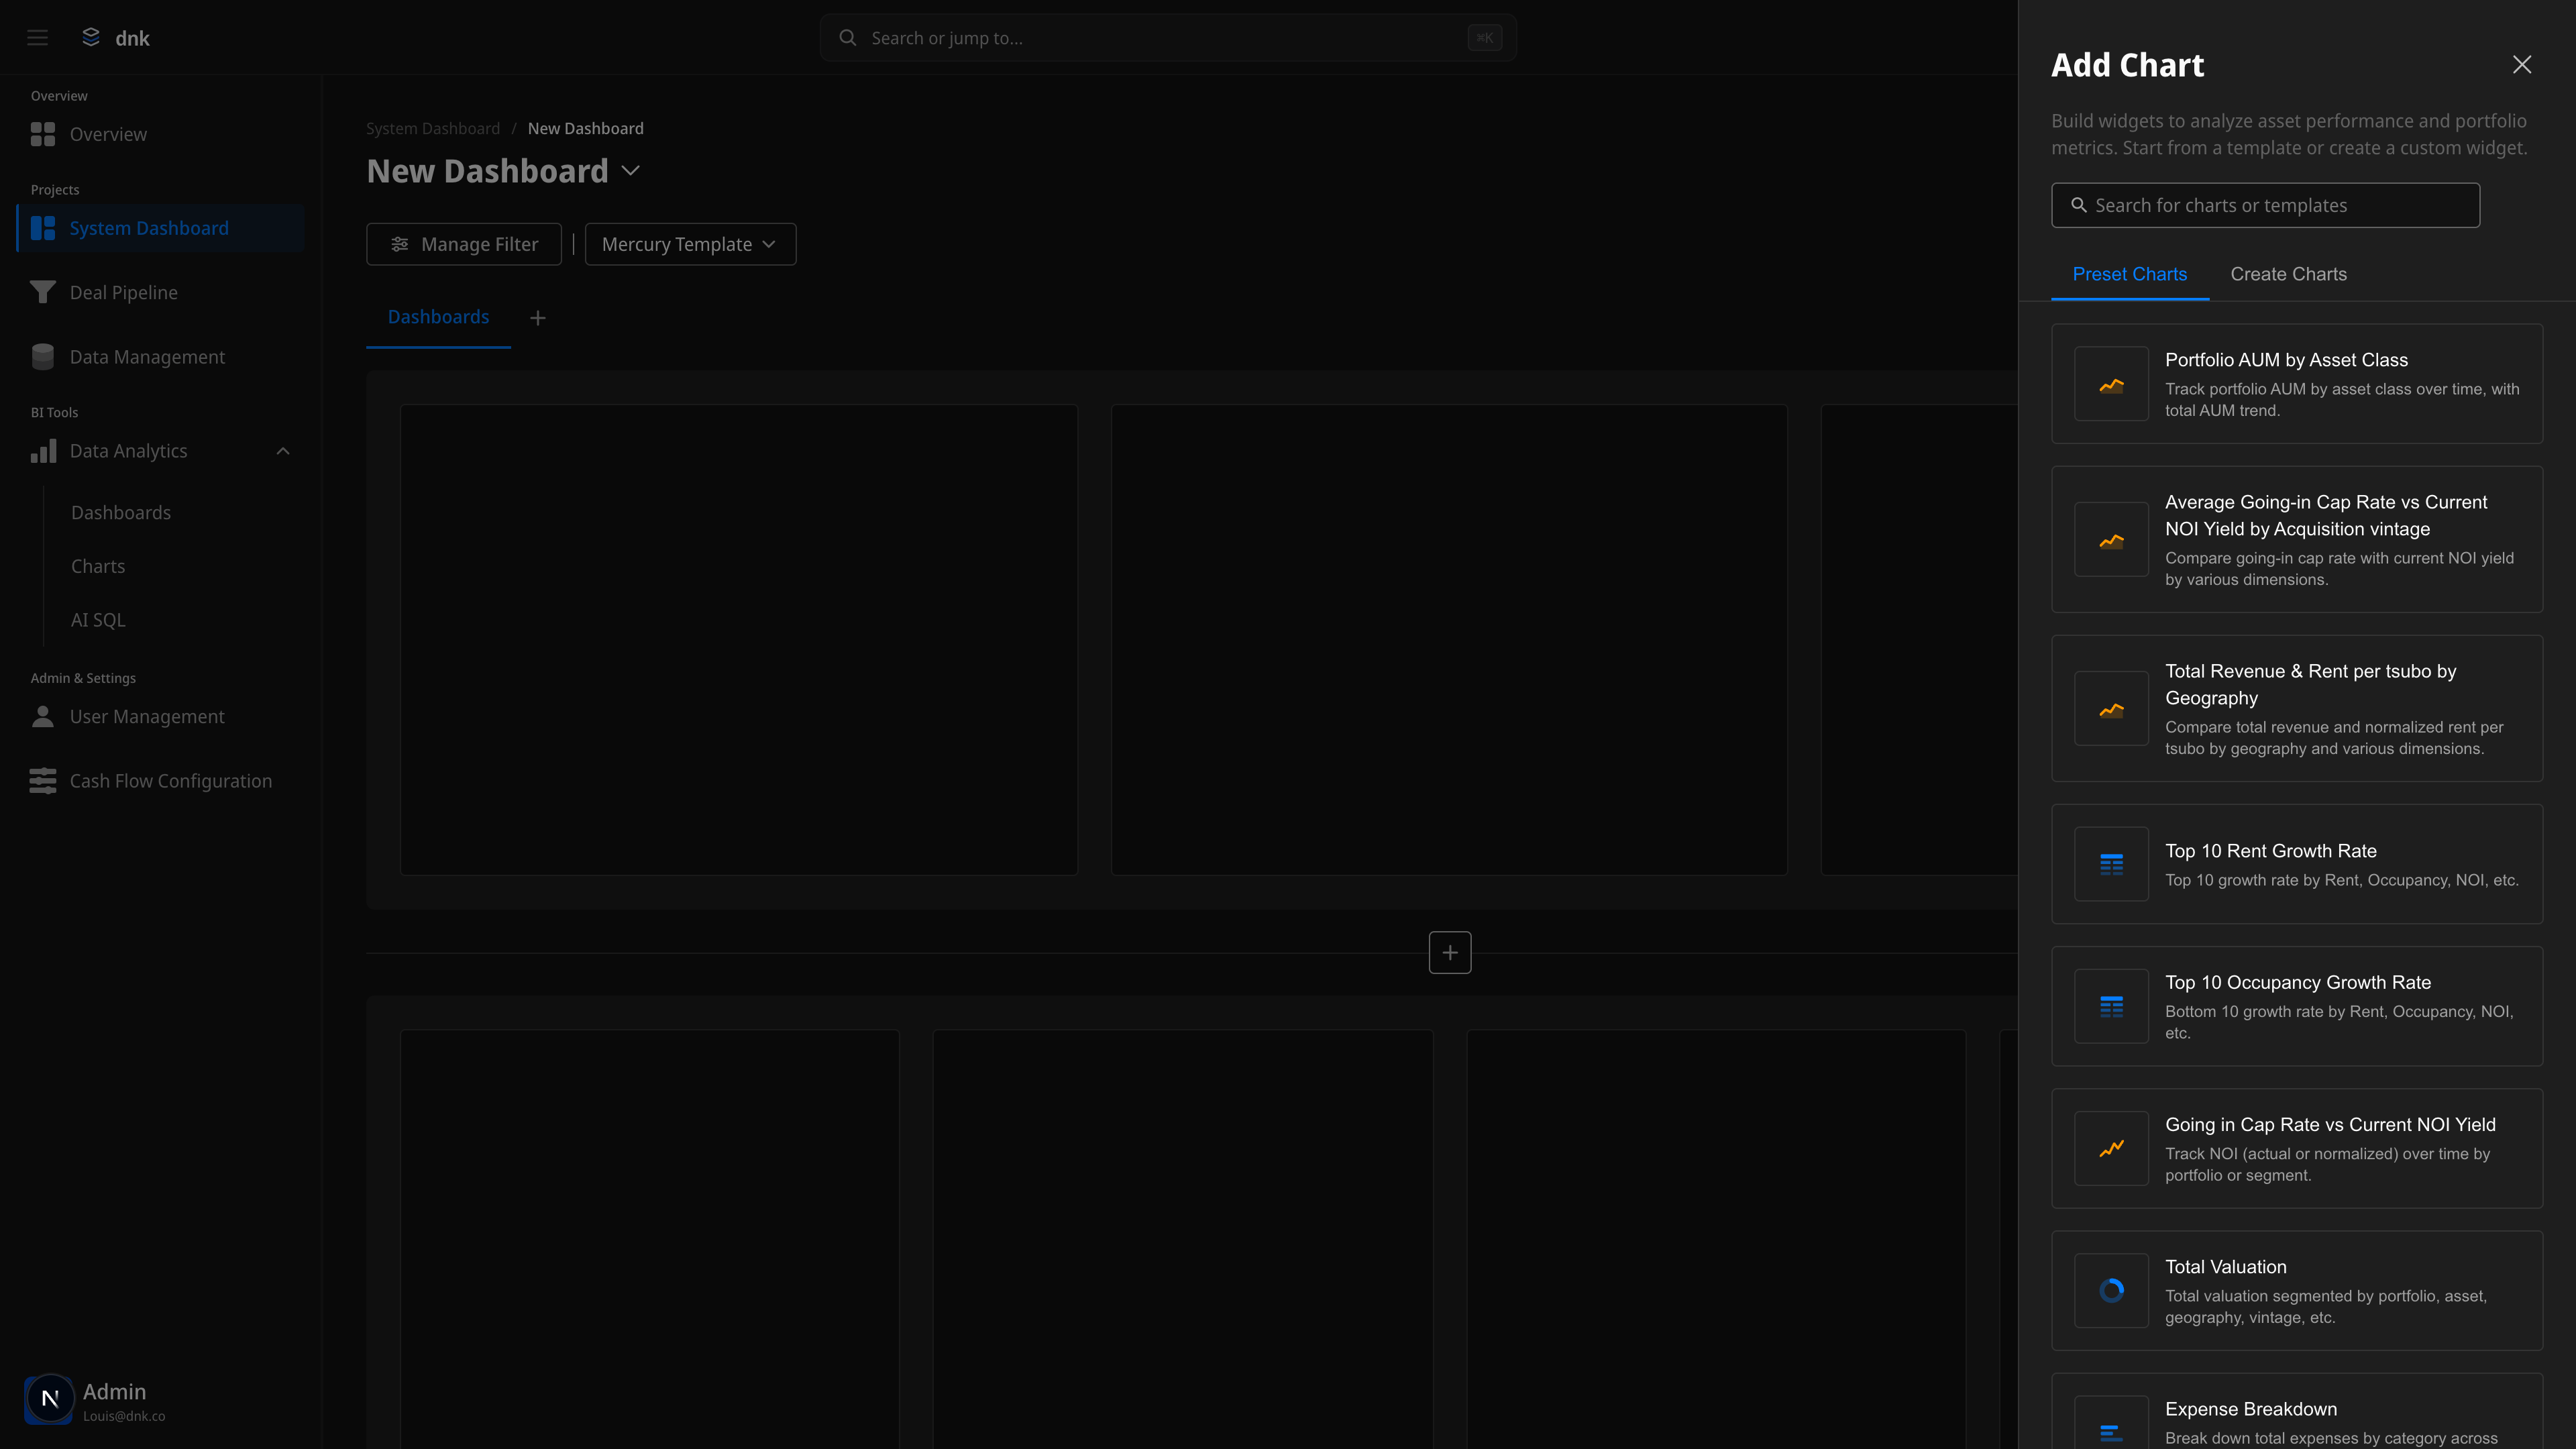
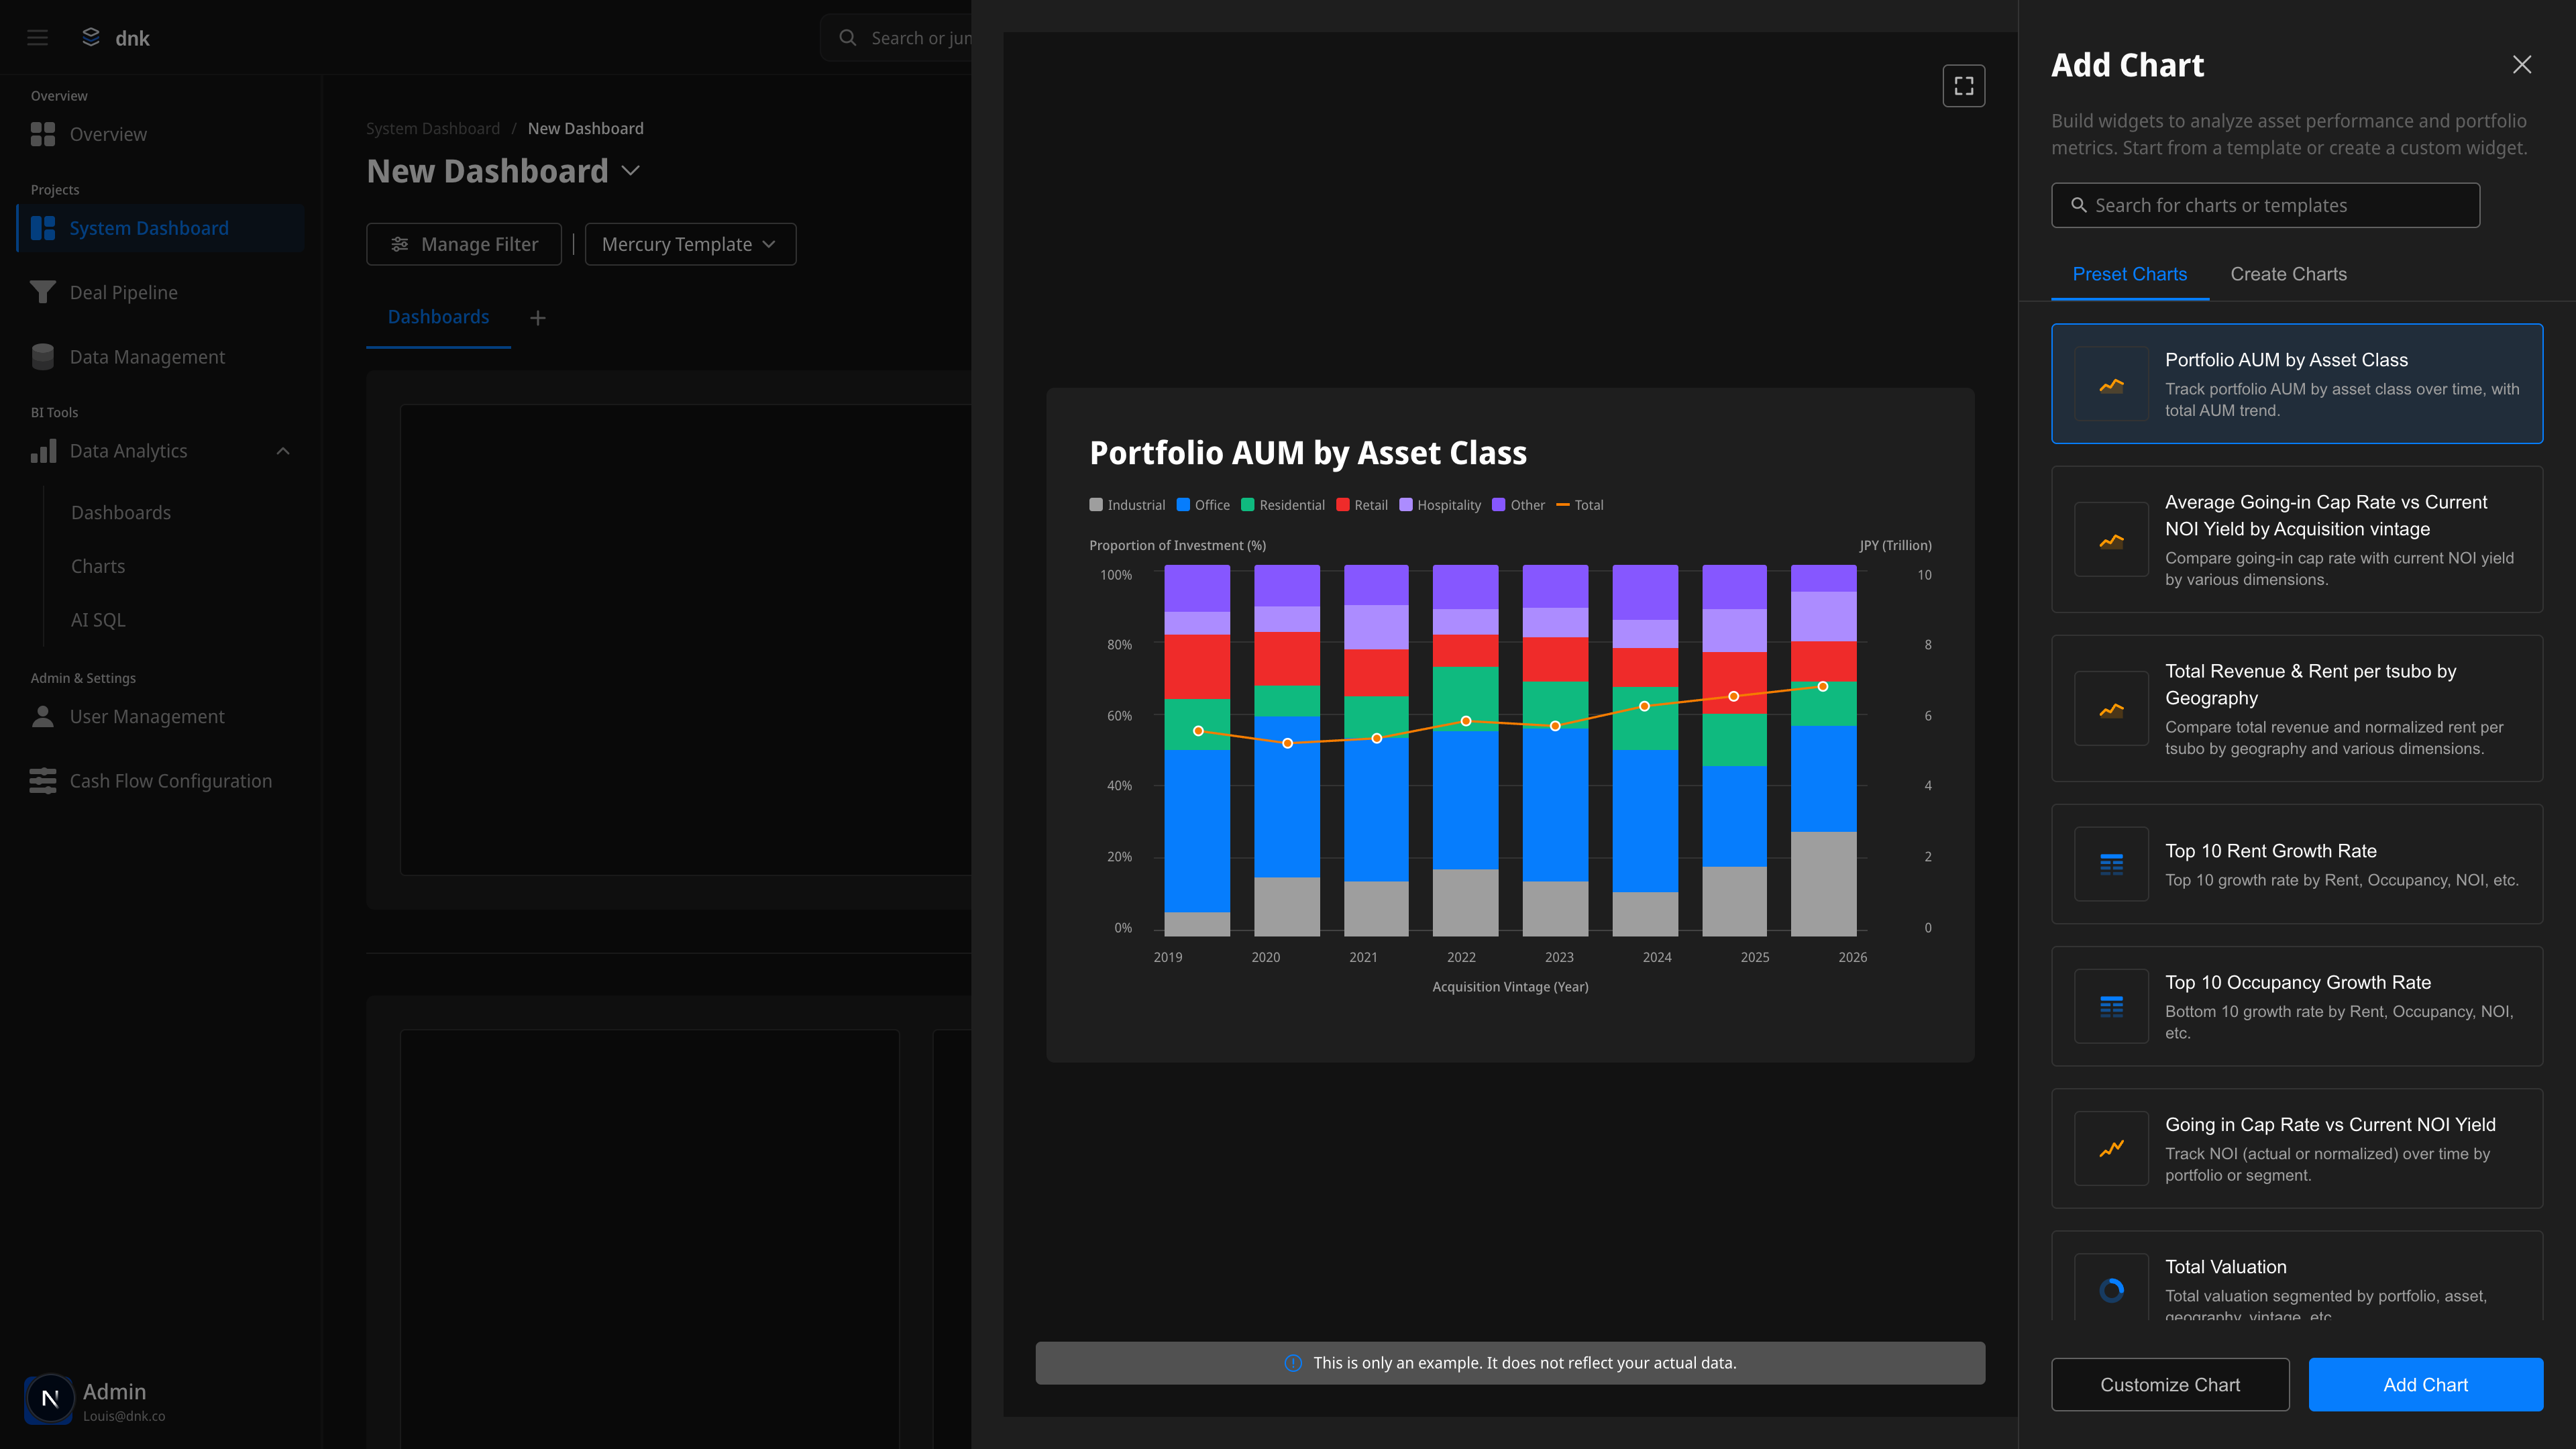
Reframe Problem with inline diagram and expand Data Management
Replace the misleading PMR screenshot in Problem (which actually showed
the redesigned Data Management view) with an inline 3-tier schematic that
makes the headline tangible: 4 roles → BI Tool barrier → 4 inconsistent
NOI reads. Move the PMR screenshot to its proper home in Feature 05 as a
new PMR Review act alongside the existing Data Source Monitoring view,
giving Data Management a complete monitor → ingest → trust narrative.
Also refresh dashboard-builder.png with the chart-preview state and fix
sub-section description width plus pain card equal-height alignment.

diff --git a/apps/docs/src/app/portfolio/invest-manager/page.module.css b/apps/docs/src/app/portfolio/invest-manager/page.module.css
@@ -220,6 +220,7 @@
 }
 
 .painCard {
+  height: 100%;
   padding: 32px 24px;
   background: rgba(255, 255, 255, 0.03);
   border: 1px solid rgba(255, 255, 255, 0.06);
@@ -251,6 +252,120 @@
 
 .fullImage {
   margin-top: 48px;
+}
+
+/* ── Problem Diagram (replaces "before" screenshot) ── */
+.problemDiagram {
+  margin-top: 56px;
+  padding: 48px 40px;
+  background: rgba(255, 255, 255, 0.02);
+  border: 1px solid rgba(255, 255, 255, 0.06);
+  border-radius: 16px;
+  display: flex;
+  flex-direction: column;
+  gap: 0;
+}
+
+.diagramTier {
+  display: flex;
+  flex-direction: column;
+  gap: 10px;
+}
+
+.diagramTierLabel {
+  font-size: 11px;
+  font-weight: 600;
+  letter-spacing: 1.4px;
+  text-transform: uppercase;
+  color: rgba(250, 250, 250, 0.35);
+  text-align: center;
+}
+
+.diagramRoleRow,
+.diagramOutputRow {
+  display: grid;
+  grid-template-columns: repeat(4, 1fr);
+  gap: 12px;
+}
+
+.diagramRole {
+  padding: 14px 16px;
+  border: 1px solid rgba(255, 255, 255, 0.08);
+  border-radius: 10px;
+  background: rgba(255, 255, 255, 0.025);
+  font-size: 13px;
+  font-weight: 600;
+  color: #fafafa;
+  text-align: center;
+}
+
+.diagramConnector {
+  width: 1px;
+  height: 28px;
+  background: linear-gradient(180deg, rgba(255, 255, 255, 0.2), rgba(255, 255, 255, 0.04));
+  margin: 10px auto;
+}
+
+.diagramBarrier {
+  margin: 0 auto;
+  padding: 18px 28px;
+  min-width: 280px;
+  max-width: 380px;
+  border: 1px dashed rgba(255, 255, 255, 0.22);
+  border-radius: 10px;
+  background: rgba(59, 130, 246, 0.04);
+  text-align: center;
+  display: flex;
+  flex-direction: column;
+  gap: 6px;
+}
+
+.diagramBarrierLabel {
+  font-size: 13px;
+  font-weight: 700;
+  color: #fafafa;
+  letter-spacing: -0.1px;
+}
+
+.diagramBarrierMeta {
+  font-size: 11px;
+  color: rgba(250, 250, 250, 0.4);
+}
+
+.diagramOutput {
+  padding: 14px 12px;
+  border: 1px solid rgba(255, 255, 255, 0.06);
+  border-radius: 10px;
+  background: rgba(255, 255, 255, 0.025);
+  display: flex;
+  flex-direction: column;
+  gap: 6px;
+  text-align: center;
+}
+
+.diagramOutputRole {
+  font-size: 10px;
+  font-weight: 700;
+  letter-spacing: 1px;
+  text-transform: uppercase;
+  color: #8bbcff;
+}
+
+.diagramOutputValue {
+  font-family: "SF Mono", Menlo, monospace;
+  font-size: 14px;
+  font-weight: 600;
+  color: #fafafa;
+  font-variant-numeric: tabular-nums;
+}
+
+.diagramCaption {
+  margin-top: 28px;
+  font-size: 13px;
+  font-weight: 500;
+  color: rgba(250, 250, 250, 0.55);
+  text-align: center;
+  letter-spacing: -0.1px;
 }
 
 /* ═══════════════════════════════════════
@@ -483,7 +598,6 @@
   font-weight: 400;
   line-height: 1.75;
   color: rgba(250, 250, 250, 0.55);
-  max-width: 720px;
 }
 
 /* ═══════════════════════════════════════
@@ -728,6 +842,20 @@
   .strategyGrid,
   .bulletRow {
     grid-template-columns: 1fr;
+  }
+
+  .problemDiagram {
+    padding: 32px 20px;
+  }
+
+  .diagramRoleRow,
+  .diagramOutputRow {
+    grid-template-columns: repeat(2, 1fr);
+  }
+
+  .diagramBarrier {
+    min-width: 0;
+    width: 100%;
   }
 
   .userGrid,

diff --git a/apps/docs/src/app/portfolio/invest-manager/page.tsx b/apps/docs/src/app/portfolio/invest-manager/page.tsx
@@ -195,12 +195,55 @@ export default function InvestManagerPage() {
         </div>
         <Reveal delay={200}>
           <div className={styles.container}>
-            <CaseImage
-              src="/images/portfolio/invest-manager/problem-before.png"
-              alt="기존 BI 도구 기반 대시보드의 복잡한 인터페이스"
-              className={styles.fullImage}
-              label="PMR Report — Raw Data Table"
-            />
+            <div className={styles.problemDiagram}>
+              <div className={styles.diagramTier}>
+                <span className={styles.diagramTierLabel}>4 Roles</span>
+                <div className={styles.diagramRoleRow}>
+                  <div className={styles.diagramRole}>Executive</div>
+                  <div className={styles.diagramRole}>Asset Manager</div>
+                  <div className={styles.diagramRole}>Analyst</div>
+                  <div className={styles.diagramRole}>Data Manager</div>
+                </div>
+              </div>
+
+              <div className={styles.diagramConnector} aria-hidden />
+
+              <div className={styles.diagramTier}>
+                <span className={styles.diagramTierLabel}>1 Shared Surface</span>
+                <div className={styles.diagramBarrier}>
+                  <span className={styles.diagramBarrierLabel}>BI Tool — complex, expert-only</span>
+                  <span className={styles.diagramBarrierMeta}>
+                    One UI for every role · CFC unmanaged
+                  </span>
+                </div>
+              </div>
+
+              <div className={styles.diagramConnector} aria-hidden />
+
+              <div className={styles.diagramTier}>
+                <span className={styles.diagramTierLabel}>4 Inconsistent Reads</span>
+                <div className={styles.diagramOutputRow}>
+                  <div className={styles.diagramOutput}>
+                    <span className={styles.diagramOutputRole}>Exec</span>
+                    <span className={styles.diagramOutputValue}>NOI ¥3.42B</span>
+                  </div>
+                  <div className={styles.diagramOutput}>
+                    <span className={styles.diagramOutputRole}>AM</span>
+                    <span className={styles.diagramOutputValue}>NOI ¥3.31B</span>
+                  </div>
+                  <div className={styles.diagramOutput}>
+                    <span className={styles.diagramOutputRole}>Analyst</span>
+                    <span className={styles.diagramOutputValue}>NOI ¥3.55B</span>
+                  </div>
+                  <div className={styles.diagramOutput}>
+                    <span className={styles.diagramOutputRole}>DM</span>
+                    <span className={styles.diagramOutputValue}>NOI ¥3.18B</span>
+                  </div>
+                </div>
+              </div>
+
+              <p className={styles.diagramCaption}>동일한 데이터 · 다른 해석 · 다른 숫자</p>
+            </div>
           </div>
         </Reveal>
       </section>
@@ -618,6 +661,50 @@ export default function InvestManagerPage() {
                 <p className={styles.bulletText}>
                   Core Banking, PMR, Bloomberg 등 6개 소스의 연결 상태와 Health Bar를 카드 형태로
                   한눈에 모니터링합니다.
+                </p>
+              </div>
+            </div>
+          </Reveal>
+          <Reveal delay={300}>
+            <div className={styles.subSectionHeader}>
+              <p className={styles.subSectionLabel}>PMR Review</p>
+              <h3 className={styles.subSectionTitle}>AI 보조 검수로 신뢰 가능한 숫자를 만듭니다</h3>
+              <p className={styles.subSectionDesc}>
+                모니터링이 &ldquo;전체 환경의 건강도&rdquo;를 본다면, PMR Review는 매월 들어오는
+                개별 리포트의 셀 단위 정합성을 다룹니다. Coverage, AI Fix Queue, Anomaly Detection이
+                한 화면에서 돌고, Executive가 보는 숫자가 만들어지기 전 단계에서 마찰을 흡수합니다.
+              </p>
+            </div>
+          </Reveal>
+          <Reveal delay={400}>
+            <CaseImage
+              src="/images/portfolio/invest-manager/pmr-review.png"
+              alt="PMR Upload Portal — Coverage, AI Fix Queue, Anomalies Detected"
+              className={styles.featureHeroImage}
+              label="PMR Upload Portal — AI-assisted Review"
+            />
+          </Reveal>
+          <Reveal delay={500}>
+            <div className={styles.bulletRow}>
+              <div className={styles.bulletCard}>
+                <h4 className={styles.bulletTitle}>Coverage at a Glance</h4>
+                <p className={styles.bulletText}>
+                  128개 셀의 상태를 한 줄로 — Errors · AI Filled · Empty · Edited. 색으로 우선순위가
+                  즉시 잡힙니다.
+                </p>
+              </div>
+              <div className={styles.bulletCard}>
+                <h4 className={styles.bulletTitle}>AI Fix Queue</h4>
+                <p className={styles.bulletText}>
+                  Fix · AI Fill · Review 액션이 항목별로 정렬됩니다. Auto-fill Empty 또는 Accept All
+                  AI로 일괄 처리도 가능합니다.
+                </p>
+              </div>
+              <div className={styles.bulletCard}>
+                <h4 className={styles.bulletTitle}>Anomaly Detection</h4>
+                <p className={styles.bulletText}>
+                  전월 대비 큰 변동을 Watch · Alert 레벨로 자동 감지합니다. Sapporo Utility +34% MoM
+                  같은 신호가 누락 없이 떠오릅니다.
                 </p>
               </div>
             </div>